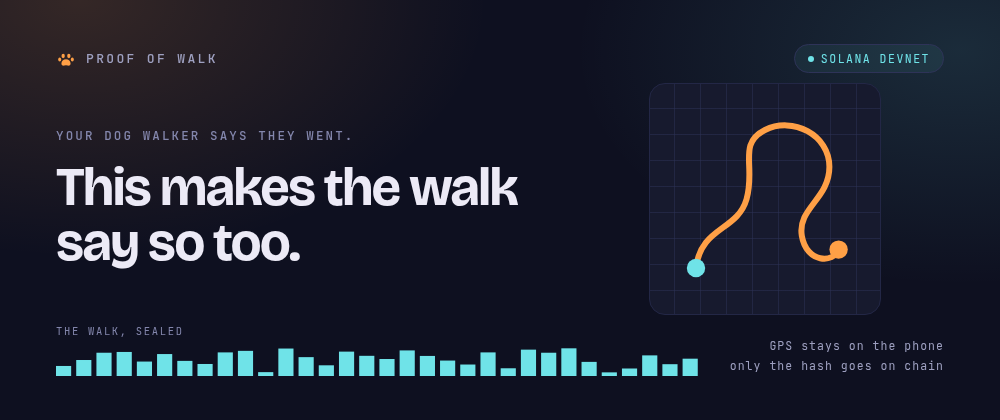
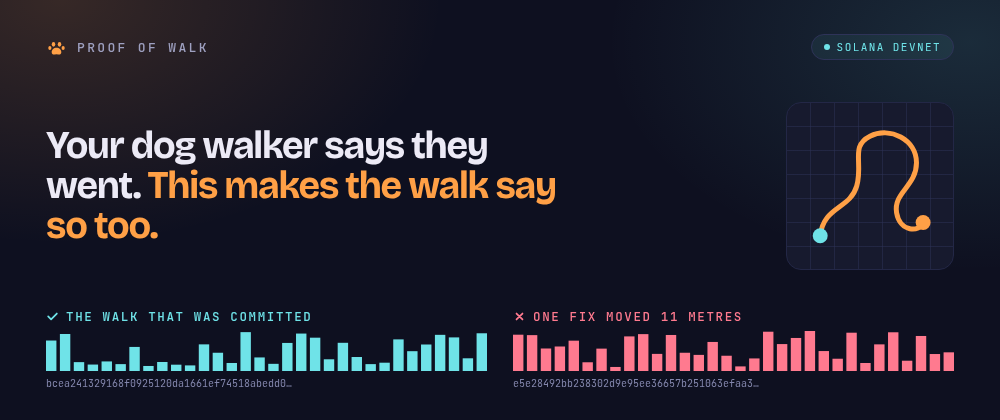
docs(cover): rebuild the cover around the verdict pair
The first cover led with a route sketch and a single seal. It was fine, and it
was also indistinguishable in intent from any other dog project once scaled to
feed size.

The field research changed what this image needs to do. Roughly thirty rival
entries are warm, playful, AI-flavoured dog apps; the one thing none of them can
put on a cover is a claim being checked. So the bottom half is now the verdict
pair — the walk that was committed in cyan, the same walk with one fix moved
eleven metres in red, using the real hashes from the attestation on devnet
rather than decorative noise.

Two changes came from checking the thumbnail rather than the full-size render,
which is the only size that decides whether anyone clicks:

- The headline had demoted "Your dog walker says they went" to a small eyebrow,
  which read well at 1000px and lost the word "dog" entirely at 500px. In a feed
  of dog posts the thumbnail has to say DOG before it says anything clever, so
  it is back in display type with the turn kept in ember.
- Bars are chunkier and labels larger; the previous full-width strip dissolved
  into texture when halved.

Adds a 2x render, since DEV displays covers well above 1000px wide on a post
page and the extra file costs nothing.

diff --git a/docs/cover.html b/docs/cover.html
@@ -6,63 +6,56 @@
 <style>
   * { box-sizing: border-box; margin: 0; }
   html, body { width: 1000px; height: 420px; overflow: hidden; }
-  body {
-    position: relative;
-    background: #0e1020;
-    font-family: "Instrument Sans", system-ui, sans-serif;
-    color: #eceaf6;
-  }
-  .wash {
-    position: absolute; inset: 0;
+  body { position: relative; background: #0e1020; font-family: "Instrument Sans", system-ui, sans-serif; color: #eceaf6; }
+  .wash { position: absolute; inset: 0;
     background:
-      radial-gradient(60% 90% at 8% 0%, rgba(255,160,70,.16), transparent 68%),
-      radial-gradient(55% 80% at 96% 12%, rgba(111,227,232,.13), transparent 70%);
-  }
-  .frame { position: relative; height: 100%; padding: 44px 56px; display: flex; flex-direction: column; }
+      radial-gradient(58% 88% at 6% 0%, rgba(255,160,70,.17), transparent 66%),
+      radial-gradient(52% 78% at 97% 10%, rgba(111,227,232,.13), transparent 70%); }
+  .frame { position: relative; height: 100%; padding: 34px 46px 30px; display: flex; flex-direction: column; }
+
   .top { display: flex; align-items: center; justify-content: space-between; }
-  .mark { display: flex; align-items: center; gap: 10px;
-    font-family: "JetBrains Mono", monospace; font-size: 13px; font-weight: 500;
-    letter-spacing: .18em; text-transform: uppercase; color: #9ea0c0; }
+  .mark { display: flex; align-items: center; gap: 10px; font-family: "JetBrains Mono", monospace;
+    font-size: 13px; font-weight: 500; letter-spacing: .18em; text-transform: uppercase; color: #9ea0c0; }
   .mark svg { color: #ffa046; }
-  .chip { display: flex; align-items: center; gap: 7px; padding: 6px 13px;
-    border: 1px solid #2e3358; border-radius: 999px; background: rgba(111,227,232,.07);
-    font-family: "JetBrains Mono", monospace; font-size: 11.5px; letter-spacing: .13em;
-    text-transform: uppercase; color: #6fe3e8; }
+  .chip { display: flex; align-items: center; gap: 7px; padding: 5px 12px; border: 1px solid #2e3358;
+    border-radius: 999px; background: rgba(111,227,232,.07); font-family: "JetBrains Mono", monospace;
+    font-size: 11px; letter-spacing: .13em; text-transform: uppercase; color: #6fe3e8; }
   .chip i { width: 6px; height: 6px; border-radius: 50%; background: currentColor; }
 
-  .mid { flex: 1; display: flex; align-items: center; gap: 48px; }
-  .claim { display: flex; flex-direction: column; gap: 16px; }
-  .eyebrow { font-family: "JetBrains Mono", monospace; font-size: 12.5px; font-weight: 500;
-    letter-spacing: .17em; text-transform: uppercase; color: #8386ac; }
-  h1 { font-family: "Bricolage Grotesque", sans-serif; font-weight: 700;
-    font-size: 53px; line-height: 1.04; letter-spacing: -.036em; max-width: 545px; }
+  .mid { flex: 1; display: flex; align-items: center; gap: 34px; padding: 14px 0 10px; }
+  .claim { flex: 1; display: flex; flex-direction: column; gap: 13px; }
+  h1 { font-family: "Bricolage Grotesque", sans-serif; font-weight: 700; font-size: 38px;
+    line-height: 1.06; letter-spacing: -.032em; max-width: 512px; }
+  h1 em { font-style: normal; color: #ffa046; }
 
-  .route { flex: none; width: 232px; height: 232px; border-radius: 16px;
-    border: 1px solid #232746; background-color: #171a2e;
-    background-image:
-      linear-gradient(rgba(46,51,88,.5) 1px, transparent 1px),
-      linear-gradient(90deg, rgba(46,51,88,.5) 1px, transparent 1px);
-    background-size: 26px 26px; background-position: center; }
+  .route { flex: none; width: 168px; height: 168px; border-radius: 15px; border: 1px solid #232746;
+    background-color: #171a2e;
+    background-image: linear-gradient(rgba(46,51,88,.5) 1px, transparent 1px),
+                      linear-gradient(90deg, rgba(46,51,88,.5) 1px, transparent 1px);
+    background-size: 24px 24px; background-position: center; }
   .route svg { width: 100%; height: 100%; }
-  .route .start { fill: #6fe3e8; }
-  .route .end { fill: #ffa046; }
-  .route path { fill: none; stroke: #ffa046; stroke-width: 2.6; stroke-linecap: round; stroke-linejoin: round; }
+  .route path { fill: none; stroke: #ffa046; stroke-width: 3; stroke-linecap: round; stroke-linejoin: round; }
+  .route .s { fill: #6fe3e8; } .route .e { fill: #ffa046; }
 
-  .bottom { display: flex; align-items: flex-end; justify-content: space-between; gap: 32px; }
-  .sealwrap { flex: 1; display: flex; flex-direction: column; gap: 8px; }
-  .sealhead { font-family: "JetBrains Mono", monospace; font-size: 10.5px;
-    letter-spacing: .16em; text-transform: uppercase; color: #8386ac; }
-  .bars { width: 100%; height: 30px; color: #6fe3e8; }
-  .bars rect { fill: currentColor; }
-  .tag { flex: none; text-align: right; font-family: "JetBrains Mono", monospace;
-    font-size: 11.5px; letter-spacing: .09em; color: #9ea0c0; line-height: 1.75; }
+  /* The verdict pair: the one thing no other entry in this challenge can show. */
+  .verdicts { display: grid; grid-template-columns: 1fr 1fr; gap: 26px; }
+  .v { display: flex; flex-direction: column; gap: 6px; }
+  .v__label { display: flex; align-items: center; gap: 7px; font-family: "JetBrains Mono", monospace;
+    font-size: 12.5px; font-weight: 500; letter-spacing: .13em; text-transform: uppercase; }
+  .v--ok .v__label { color: #6fe3e8; }
+  .v--bad .v__label { color: #ff7a8f; }
+  .v__bars { width: 100%; height: 40px; }
+  .v--ok .v__bars rect { fill: #6fe3e8; }
+  .v--bad .v__bars rect { fill: #ff7a8f; }
+  .v__hex { font-family: "JetBrains Mono", monospace; font-size: 10px; color: #8386ac;
+    white-space: nowrap; overflow: hidden; text-overflow: ellipsis; }
 </style></head>
 <body>
 <div class="wash"></div>
 <div class="frame">
   <div class="top">
     <div class="mark">
-      <svg width="20" height="20" viewBox="0 0 24 24" fill="currentColor">
+      <svg width="21" height="21" viewBox="0 0 24 24" fill="currentColor">
         <ellipse cx="8.6" cy="8.4" rx="2" ry="2.6"/><ellipse cx="15.4" cy="8.4" rx="2" ry="2.6"/>
         <ellipse cx="4.4" cy="12.6" rx="1.8" ry="2.3"/><ellipse cx="19.6" cy="12.6" rx="1.8" ry="2.3"/>
         <path d="M12 12.4c3.2 0 5.5 2.5 5.5 4.9 0 2-1.7 3.1-3.5 2.6a7.4 7.4 0 0 0-4 0c-1.8.5-3.5-.6-3.5-2.6 0-2.4 2.3-4.9 5.5-4.9Z"/>
@@ -73,22 +66,34 @@
   </div>
 
   <div class="mid">
-    <div class="claim"><p class="eyebrow">Your dog walker says they went.</p><h1>This makes the walk say so too.</h1></div>
+    <div class="claim">
+      <h1>Your dog walker says they went. <em>This makes the walk say so too.</em></h1>
+    </div>
     <div class="route">
       <svg viewBox="0 0 100 100">
         <path d="M20 80C22 62 38 64 42 50c4-14-4-24 8-30s28 2 28 16-14 18-12 30c2 12 14 12 16 6"/>
-        <circle class="start" cx="20" cy="80" r="4"/>
-        <circle class="end" cx="82" cy="72" r="4"/>
+        <circle class="s" cx="20" cy="80" r="4.5"/><circle class="e" cx="82" cy="72" r="4.5"/>
       </svg>
     </div>
   </div>
 
-  <div class="bottom">
-    <div class="sealwrap">
-      <div class="sealhead">the walk, sealed</div>
-      <svg class="bars" viewBox="0 0 127 32" preserveAspectRatio="none"><rect x="0" y="21.29" width="3" height="10.71"/><rect x="4" y="14.94" width="3" height="17.06"/><rect x="8" y="7.18" width="3" height="24.82"/><rect x="12" y="6.35" width="3" height="25.65"/><rect x="16" y="16.59" width="3" height="15.41"/><rect x="20" y="8.59" width="3" height="23.41"/><rect x="24" y="15.88" width="3" height="16.12"/><rect x="28" y="19.18" width="3" height="12.82"/><rect x="32" y="6.82" width="3" height="25.18"/><rect x="36" y="5.18" width="3" height="26.82"/><rect x="40" y="27.88" width="3" height="4.12"/><rect x="44" y="2.71" width="3" height="29.29"/><rect x="48" y="11.88" width="3" height="20.12"/><rect x="52" y="20.59" width="3" height="11.41"/><rect x="56" y="6.00" width="3" height="26.00"/><rect x="60" y="10.47" width="3" height="21.53"/><rect x="64" y="13.88" width="3" height="18.12"/><rect x="68" y="4.71" width="3" height="27.29"/><rect x="72" y="10.59" width="3" height="21.41"/><rect x="76" y="15.53" width="3" height="16.47"/><rect x="80" y="19.76" width="3" height="12.24"/><rect x="84" y="6.82" width="3" height="25.18"/><rect x="88" y="23.76" width="3" height="8.24"/><rect x="92" y="3.88" width="3" height="28.12"/><rect x="96" y="7.18" width="3" height="24.82"/><rect x="100" y="2.47" width="3" height="29.53"/><rect x="104" y="16.94" width="3" height="15.06"/><rect x="108" y="28.12" width="3" height="3.88"/><rect x="112" y="24.00" width="3" height="8.00"/><rect x="116" y="10.00" width="3" height="22.00"/><rect x="120" y="19.41" width="3" height="12.59"/><rect x="124" y="13.53" width="3" height="18.47"/></svg>
+  <div class="verdicts">
+    <div class="v v--ok">
+      <p class="v__label">
+        <svg width="13" height="13" viewBox="0 0 24 24" fill="none" stroke="currentColor" stroke-width="3.2" stroke-linecap="round" stroke-linejoin="round"><path d="M20 6.5 9.4 17.2 4 11.8"/></svg>
+        the walk that was committed
+      </p>
+      <svg class="v__bars" viewBox="0 0 127 32" preserveAspectRatio="none"><rect x="0" y="7.62" width="3" height="24.38"/><rect x="4" y="2.39" width="3" height="29.61"/><rect x="8" y="24.91" width="3" height="7.09"/><rect x="12" y="26.84" width="3" height="5.16"/><rect x="16" y="24.34" width="3" height="7.66"/><rect x="20" y="26.50" width="3" height="5.50"/><rect x="24" y="12.74" width="3" height="19.26"/><rect x="28" y="27.98" width="3" height="4.02"/><rect x="32" y="24.79" width="3" height="7.21"/><rect x="36" y="26.95" width="3" height="5.05"/><rect x="40" y="27.52" width="3" height="4.48"/><rect x="44" y="10.69" width="3" height="21.31"/><rect x="48" y="17.40" width="3" height="14.60"/><rect x="52" y="25.59" width="3" height="6.41"/><rect x="56" y="0.91" width="3" height="31.09"/><rect x="60" y="21.15" width="3" height="10.85"/><rect x="64" y="26.27" width="3" height="5.73"/><rect x="68" y="9.55" width="3" height="22.45"/><rect x="72" y="2.05" width="3" height="29.95"/><rect x="76" y="5.35" width="3" height="26.65"/><rect x="80" y="22.63" width="3" height="9.37"/><rect x="84" y="9.44" width="3" height="22.56"/><rect x="88" y="20.81" width="3" height="11.19"/><rect x="92" y="26.50" width="3" height="5.50"/><rect x="96" y="25.36" width="3" height="6.64"/><rect x="100" y="6.71" width="3" height="25.29"/><rect x="104" y="16.15" width="3" height="15.85"/><rect x="108" y="10.80" width="3" height="21.20"/><rect x="112" y="3.07" width="3" height="28.93"/><rect x="116" y="5.12" width="3" height="26.88"/><rect x="120" y="21.84" width="3" height="10.16"/><rect x="124" y="1.82" width="3" height="30.18"/></svg>
+      <p class="v__hex">bcea241329168f0925120da1661ef74518abedd0…</p>
     </div>
-    <div class="tag">GPS stays on the phone<br>only the hash goes on chain</div>
+    <div class="v v--bad">
+      <p class="v__label">
+        <svg width="13" height="13" viewBox="0 0 24 24" fill="none" stroke="currentColor" stroke-width="3.2" stroke-linecap="round" stroke-linejoin="round"><path d="M17.5 6.5 6.5 17.5M6.5 6.5l11 11"/></svg>
+        one fix moved 11 metres
+      </p>
+      <svg class="v__bars" viewBox="0 0 127 32" preserveAspectRatio="none"><rect x="0" y="2.96" width="3" height="29.04"/><rect x="4" y="3.30" width="3" height="28.70"/><rect x="8" y="13.99" width="3" height="18.01"/><rect x="12" y="12.40" width="3" height="19.60"/><rect x="16" y="7.73" width="3" height="24.27"/><rect x="20" y="25.02" width="3" height="6.98"/><rect x="24" y="14.10" width="3" height="17.90"/><rect x="28" y="28.77" width="3" height="3.23"/><rect x="32" y="4.32" width="3" height="27.68"/><rect x="36" y="2.50" width="3" height="29.50"/><rect x="40" y="18.31" width="3" height="13.69"/><rect x="44" y="3.18" width="3" height="28.82"/><rect x="48" y="17.40" width="3" height="14.60"/><rect x="52" y="19.11" width="3" height="12.89"/><rect x="56" y="8.76" width="3" height="23.24"/><rect x="60" y="19.79" width="3" height="12.21"/><rect x="64" y="28.32" width="3" height="3.68"/><rect x="68" y="21.95" width="3" height="10.05"/><rect x="72" y="0.57" width="3" height="31.43"/><rect x="76" y="10.46" width="3" height="21.54"/><rect x="80" y="5.57" width="3" height="26.43"/><rect x="84" y="0.00" width="3" height="32.00"/><rect x="88" y="16.04" width="3" height="15.96"/><rect x="92" y="22.18" width="3" height="9.82"/><rect x="96" y="1.36" width="3" height="30.64"/><rect x="100" y="25.59" width="3" height="6.41"/><rect x="104" y="10.69" width="3" height="21.31"/><rect x="108" y="1.02" width="3" height="30.98"/><rect x="112" y="23.77" width="3" height="8.23"/><rect x="116" y="3.98" width="3" height="28.02"/><rect x="120" y="18.42" width="3" height="13.58"/><rect x="124" y="17.06" width="3" height="14.94"/></svg>
+      <p class="v__hex">e5e28492bb238302d9e95ee36657b251063efaa3…</p>
+    </div>
   </div>
 </div>
 </body></html>

diff --git a/docs/SUBMISSION.md b/docs/SUBMISSION.md
@@ -2,7 +2,7 @@
 title: "Proof of Walk: your dog walker says they went. This makes the walk say so too."
 published: false
 tags: devchallenge, weekendchallenge
-cover_image: <<UPLOAD docs/cover.png TO THE DEV EDITOR AND PASTE THE URL HERE>>
+cover_image: <<UPLOAD docs/cover@2x.png TO THE DEV EDITOR AND PASTE THE URL HERE>>
 ---
 
 *This is a submission for [Weekend Challenge: Dog Days Edition](https://dev.to/challenges/weekend-2026-08-13)*
